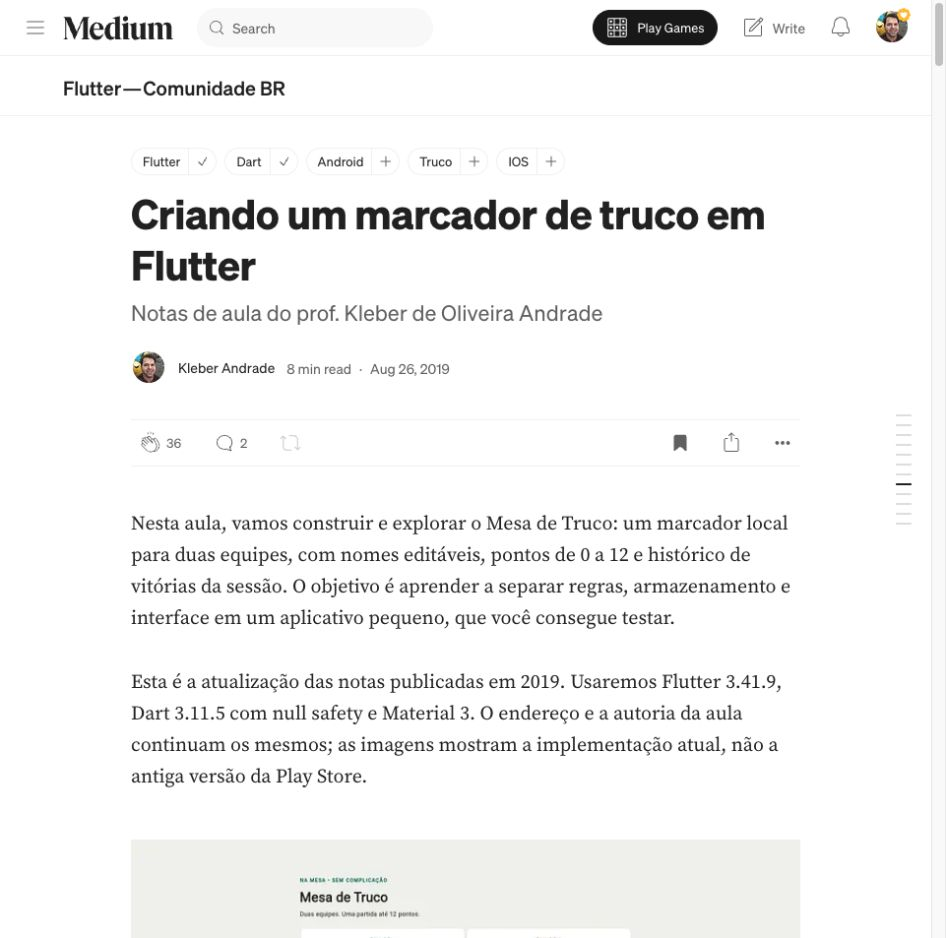
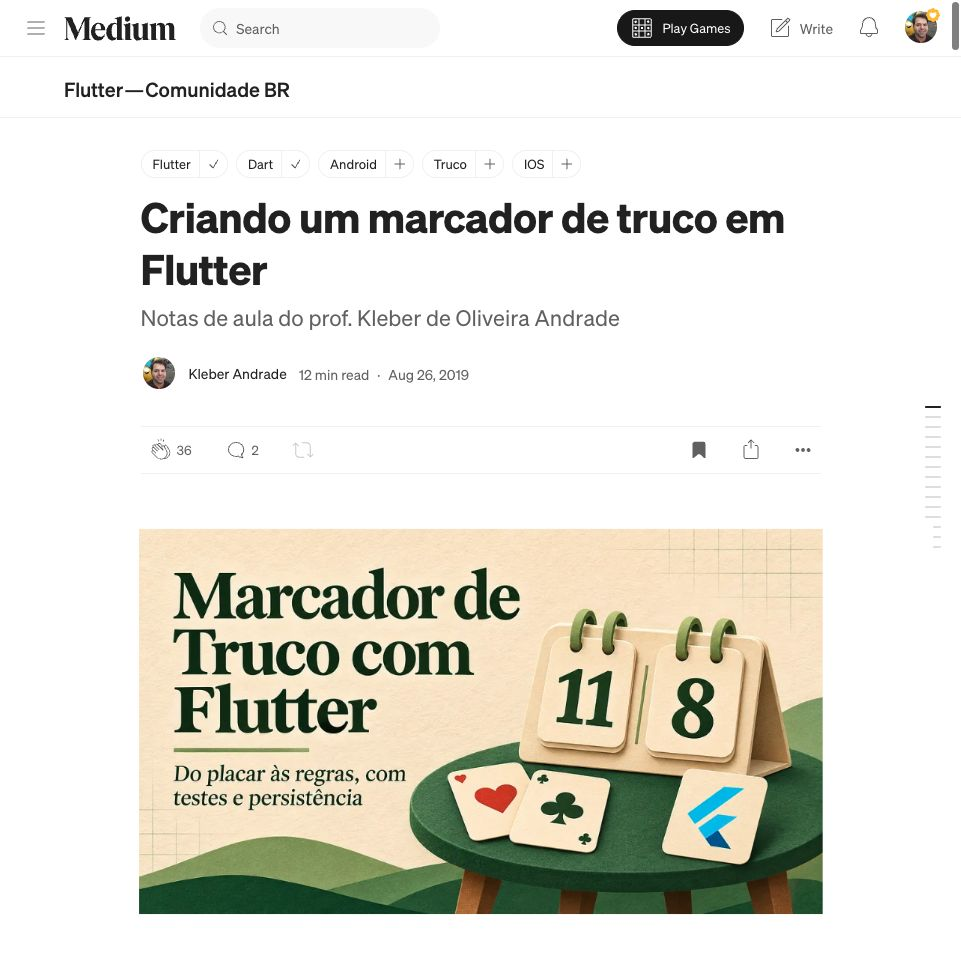
fix: remove obsolete iOS workaround and publish aligned lesson
Flutter 3.50 verifies each lipo architecture; default simulator packaging and native integration passed. Record final editorial cover, checkpoints and exactly five exercises from the published Medium lesson.

diff --git a/README.md b/README.md
@@ -51,7 +51,7 @@ flutter test integration_test/scoreboard_test.dart -d YOUR_SIMULATOR_ID
 
 Seven local tests cover score boundaries, winner lock/cancel/confirm, resets, name validation, serialized round trips, persistence recovery, corrupt-save preservation and widget interactions. The published GitHub workflow in `.github/workflows/flutter.yml` runs analysis/tests/Web builds. Its live badge reflects GitHub status.
 
-Web build and Chrome preview were exercised locally. Some Android licenses remain incomplete; the debug APK compiled without accepting new terms. Android debug APK compiled with the updated Gradle template; Android interaction and physical devices were not validated. iOS simulator packaging and one native integration test passed on an iPhone 17 Pro / iOS 26.4.1. Xcode 27's lipo rejects Flutter's multi-architecture check; `ios/Flutter/Debug.xcconfig` selects arm64 for simulator Debug only. Explicit arm64 avoids arm64e reported by an Xcode host process. Intel Macs need x86_64 instead (unverified); device and Release architecture settings are unchanged. Xcode 27.2, Flutter failed to package its simulator engine with an architecture check despite lipo listing both architectures. This is an unresolved local toolchain limitation, not a successful native build. Xcode 27.2 and Android SDK 36.1.0 were detected. `crapper`, `dryer`, and `mutator` are installed but their supported language lists exclude Dart; no CRAP, duplication or mutation score is claimed.
+Web build and Chrome preview were exercised locally. Some Android licenses remain incomplete; the debug APK compiled without accepting new terms. Android debug APK compiled with the updated Gradle template; Android interaction and physical devices were not validated. iOS simulator packaging and one native integration test passed on an iPhone 17 Pro / iOS 26.4.1. The former simulator Debug arm64 workaround was removed: Flutter 3.50 verifies each architecture separately. Generic simulator packaging and the native integration passed with default architectures. Intel execution remains unverified. Xcode 27.2, Flutter failed to package its simulator engine with an architecture check despite lipo listing both architectures. This is an unresolved local toolchain limitation, not a successful native build. Xcode 27.2 and Android SDK 36.1.0 were detected. `crapper`, `dryer`, and `mutator` are installed but their supported language lists exclude Dart; no CRAP, duplication or mutation score is claimed.
 
 ![Real Chrome preview](docs/preview-desktop.jpg)
 

diff --git a/docs/medium-update.pt-BR.md b/docs/medium-update.pt-BR.md
@@ -172,13 +172,11 @@ flutter test integration_test/scoreboard_test.dart -d IDENTIFICADOR_DO_SIMULADOR
 
 ## 10. Executando no simulador iOS
 
-No macOS, configure o Xcode e inicialize um simulador. O projeto usa iOS mínimo 15. No ambiente desta atualização, Xcode 27.2 e Flutter 3.50.0 expuseram uma incompatibilidade na verificação de múltiplas arquiteturas feita por lipo. A configuração Debug.xcconfig limita somente o build Debug do simulador à arquitetura arm64 dos Macs Apple Silicon:
+No macOS, configure o Xcode e inicialize um simulador. O projeto usa iOS mínimo 15. Na etapa anterior, com Flutter 3.41.9 e Xcode 27.2, uma verificação lipo com várias arquiteturas falhava; foi necessário restringir temporariamente o simulador a arm64. Ao atualizar para Flutter 3.50.0, conferimos que o próprio SDK verifica cada arquitetura separadamente. Removemos a restrição e repetimos o build e o teste integrado com sucesso.
 
-```text
-ARCHS[sdk=iphonesimulator*] = arm64
-```
+Esta é uma lição de manutenção: um workaround deve ter motivo, escopo e condição de remoção. Não copie a antiga linha ARCHS para esta versão. Debug.xcconfig volta a incluir apenas as configurações do CocoaPods e do Flutter; não altera a seleção de arquiteturas padrão do simulador. Isso também remove a restrição anterior a Macs Apple Silicon, embora o teste de execução desta aula tenha sido feito em arm64. Não validamos um Mac Intel.
 
-Isso evita a chamada problemática com duas arquiteturas, sem modificar o SDK global e sem alterar os builds de dispositivo ou Release. Usamos arm64 explicitamente porque o Xcode iniciado como arm64e pode informar uma arquitetura nativa que o simulador não aceita. Em Macs Intel, adapte essa configuração Debug para x86_64; essa combinação não foi validada aqui. A configuração é local ao projeto e deve ser reavaliada quando o Flutter incorporar a correção. O empacotamento e o fluxo integrado no simulador foram verificados novamente com as dependências atualizadas; isso não equivale a validar um aparelho físico ou uma publicação na App Store.
+O empacotamento e o fluxo integrado foram verificados no iPhone 17 Pro / iOS 26.4.1, com as dependências atualizadas. Esse resultado não equivale a validar um telefone físico ou uma publicação na App Store.
 
 ```sh
 flutter build ios --simulator --debug

diff --git a/docs/WORK_LOG.md b/docs/WORK_LOG.md
@@ -38,3 +38,7 @@
 - SDK upgrade advanced transitives; two remaining SDK pins were experimentally overridden in a temporary pubspec_overrides.yaml. Analyzer, seven tests, Web release, native simulator integration (including platform preferences.reload) and normal simulator build passed. Promoted exact material_color_utilities 0.13.1 and test_api 0.7.15 to the shared manifest, removed temporary override file. pub outdated now reports no outdated packages.
 - Updated Android build files from the exact Flutter 3.50 template, preserving application identity/assets. Android debug APK compiled; no new licenses accepted, no Android interaction claim. iOS migrator added SPM while customized CocoaPods remains; simulator build and native integration passed with its migration advisory.
 - Expanded the Portuguese lesson with SDK selection, package constraints/overrides, checkpoints, full storage imports, state-flow explanations and exactly five independent exercises with acceptance criteria and tests. Explicitly marked exercises as not implemented.
+
+- Final source review found Flutter 3.50's darwin.dart now verifies lipo architectures individually. Removed the obsolete arm64-only Debug workaround and rebuilt the generic simulator package successfully. Updated the lesson to teach removing obsolete workarounds rather than copying old configuration; repeated native integration result follows.
+- The generic simulator build and native integration both passed after removing the architecture workaround. The published lesson now distinguishes the historical 3.41 failure from the 3.50 upstream fix, with no ARCHS override in current code.
+- Published and read back the final lesson at the original Medium identity. Verified exactly five exercise headings, Flutter 3.50/override explanations and the removed-workaround explanation. The final og:image points to the new editorial cover (0*cPHRGIJcC1S3EvYa.png). Added alternative text, explicit illustration attribution and real Web/native figures; kept author, title, date and content licensing. No subscriber email was sent. CI for e84bdff passed before this final documentation/config correction.
